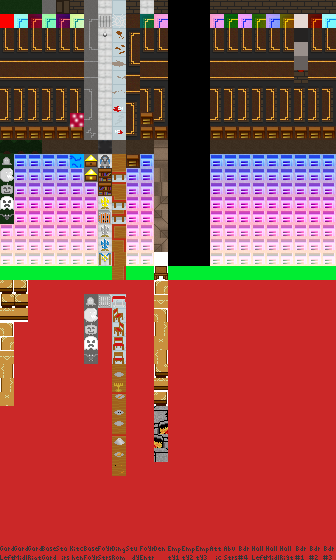
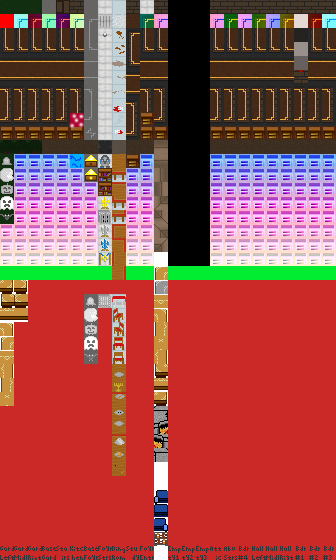
Added some tiles to the den. Moved the puzzle around a bit. Changed static tile color to help player see where to start.

Changed region(s): [[0.4464, 0.8196, 0.506, 1.0], [0.4464, 0.4554, 0.506, 0.5464]]

diff --git a/js/World.js b/js/World.js
@@ -53,13 +53,13 @@ var levelFoyerEntrance =
 var levelDen =
 	[ // Fireplace, Armchairs, Rug
 		 16, 11, 11, 11, 11, 11, 11, 11, 11, 11, 11, 11, 11, 11, 11, 17,
-         12, 0, 0, 0, 0, 0, 29, 30, 31, 32, 0, 0, 0, 0, 0, 13,
-		 12, 0, 0, 0, 21, 0, 0, 0, 0, 0, 0, 0, 23, 0, 0, 13,
-		 12, 0, 0, 0, 0, 0, 22, 0, 0, 0, 0, 0, 0, 0, 0, 13,
-		 12, 0, 0, 0, 0, 20, 0, 25, 26, 0, 0, 0, 0, 0, 0, 13,
-		 0, 0, 0, 0, 0, 0, 0, 0, 0, 0, 0, 0, 0, 0, 0, 13,
-		 12, 0, 24, 0, 0, 0, 0, 0, 0, 0, 0, 0, 0, 27, 0, 13,
-		 12, 0, 0, 0, 0, 0, 0, 0, 0, 0, 0, 28, 0, 0, 0, 13,
+         12, 33, 0, 38, 38, 0, 29, 30, 31, 32, 0, 38, 38, 0, 34, 13,
+		 12, 0, 0, 0, 0, 0, 0, 0, 0, 0, 0, 0, 0, 0, 0, 13,
+		 12, 0, 0, 0, 0, 0, 0, 0, 0, 0, 0, 0, 0, 0, 0, 13,
+		 12, 0, 0, 0, 22, 0, 20, 0, 0, 0, 0, 35, 36, 37, 38, 13,
+		 0, 0, 0, 0, 27, 0, 0, 23, 0, 0, 0, 0, 0, 0, 0, 13,
+		 12, 0, 24, 0, 0, 26, 0, 0, 0, 0, 0, 35, 36, 37, 38, 13,
+		 12, 0, 0, 0, 28, 0, 0, 21, 0, 25, 0, 0, 0, 0, 0, 13,
 		 12, 0, 0, 0, 0, 0, 0, 0, 0, 0, 0, 0, 0, 0, 0, 13,
 		 14, 10, 10, 10, 10, 10, 10, 10, 10, 10, 10, 10, 10, 10, 10, 15,
 	];
@@ -370,7 +370,7 @@ const TILE_GROUND = 0;
 const TILE_WALL = 1;
 const TILE_BLANK = 2;
 const TILE_TRANSPARENT_SOLID_FIRST = 11;
-const TILE_TRANSPARENT_SOLID_LAST = 29;
+const TILE_TRANSPARENT_SOLID_LAST = 39;
 
 // Player And Pickup Tiles
 const TILE_PLAYERSTART = 100;

diff --git a/js/RoomCheck.js b/js/RoomCheck.js
@@ -79,13 +79,14 @@ function checkDen()
 {
     if (roomCoordToIndex() == ROOM_ID_DEN && denPuzzleSolved == false)
     {
-        if (worldGrid[69] == 20 && worldGrid[70] == 21 && worldGrid[71] == 22
-                && worldGrid[85] == 23 && worldGrid[86] == 24 && worldGrid[87] == 25
-                && worldGrid[101] == 26 && worldGrid[102] == 27 && worldGrid[103] == 28
+        if (worldGrid[70] == 20 && worldGrid[71] == 21 && worldGrid[72] == 22
+                && worldGrid[86] == 23 && worldGrid[87] == 24 && worldGrid[88] == 25
+                && worldGrid[102] == 26 && worldGrid[103] == 27 && worldGrid[104] == 28
                 && denPuzzleSolved == false) // Check if all table pieces are assembled in the correct order
         {
             denPuzzleSolved = true;
-            spawnKey(TILE_KEY_GARDEN, 91);
+            spawnTile(19, 70);
+            spawnTile(TILE_KEY_GARDEN, 94);
             postMessage(dialogueDenPuzzleSolved);
             roomLayout[roomCoordToIndex()] = worldGrid; // Save state of the room
         }
@@ -149,7 +150,7 @@ function changeTile(indexOfChangingTile, changingTileTypeOff, changingTileTypeOn
 }
 
 
-function spawnKey(whichKey, whichTileIndex)
+function spawnTile(whichKey, whichTileIndex)
 {
     worldGrid[whichTileIndex] = whichKey;
 }
